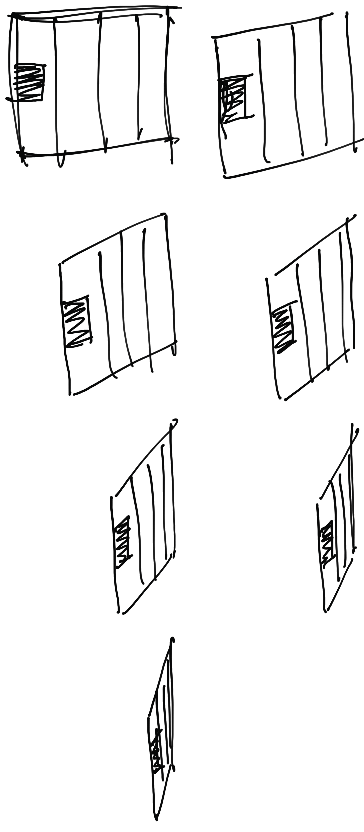
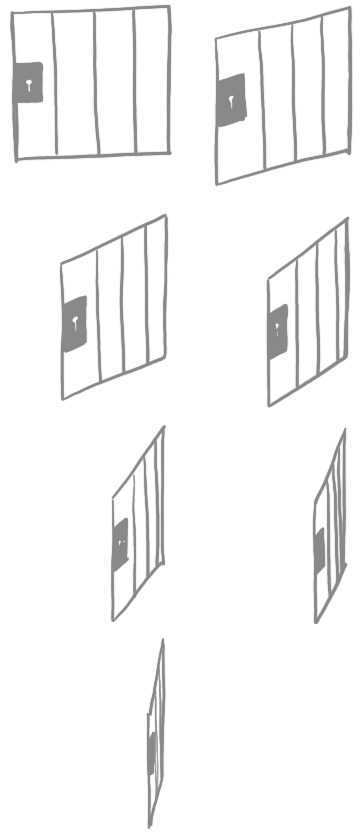
Update images

diff --git a/sdlexample/playground.c b/sdlexample/playground.c
@@ -19,6 +19,7 @@
 static ImageData background = {NULL, 0, 0};
 static ImageData squirrel = {NULL, 0, 0};
 static ImageData peg = {NULL, 0, 0};
+static ImageData fixed_peg = {NULL, 0, 0};
 static ImageData acorns = {NULL, 0, 0};
 static Fox *fox;
 
@@ -87,6 +88,11 @@ static bool load_media(SDL_Renderer *renderer) {
 
   if (!load_image(renderer, &peg, "playground/peg.png")) {
     fprintf(stderr, "Failed to load peg!\n");
+    return false;
+  }
+
+  if (!load_image(renderer, &fixed_peg, "playground/fixed_peg.png")) {
+    fprintf(stderr, "Failed to load fixed peg!\n");
     return false;
   }
 
@@ -220,7 +226,7 @@ static void render(SDL_Renderer *renderer) {
                                fox->current_position.y - 100});
     } else {
       if (has_slide_been_fixed) {
-        render_image(renderer, &peg, (SDL_Point){272, 263});
+        render_image(renderer, &fixed_peg, (SDL_Point){267, 263});
       } else {
         render_image(renderer, &peg, (SDL_Point){109, 474});
       }
@@ -252,6 +258,7 @@ static void deinit(void) {
   free_image_texture(&background);
   free_image_texture(&squirrel);
   free_image_texture(&peg);
+  free_image_texture(&fixed_peg);
   free_image_texture(&acorns);
 
   fox_free(fox);

diff --git a/sdlexample/playground_entrance.c b/sdlexample/playground_entrance.c
@@ -230,7 +230,7 @@ static void render(SDL_Renderer *renderer) {
   render_image(renderer, &background, (SDL_Point){0, 0});
 
   render_animation(renderer, excavator, (SDL_Point){180, 350});
-  render_animation(renderer, gate, (SDL_Point){491, 162});
+  render_animation(renderer, gate, (SDL_Point){491, 152});
   render_animation(renderer, shovel, (SDL_Point){112, 380});
 
   if (has_key_been_revealed) {
